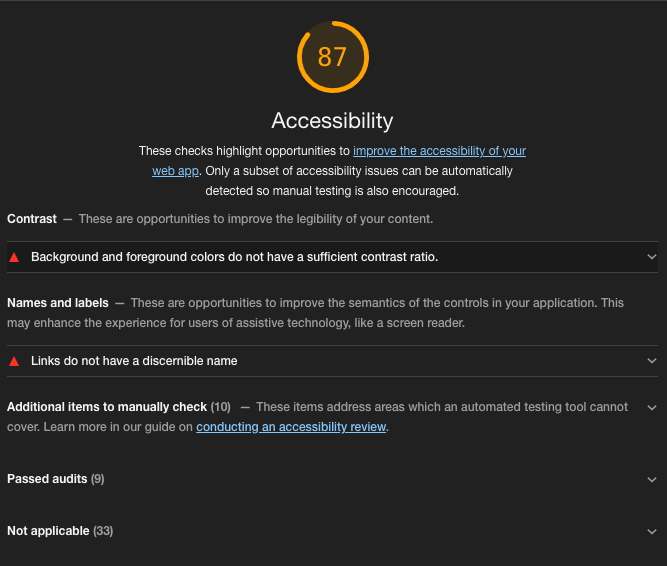
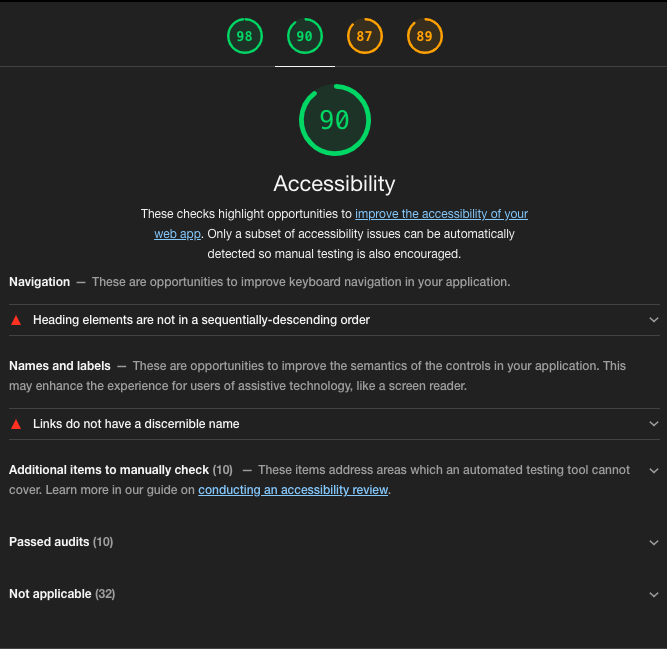
Add screenshots to update README

diff --git a/README.md b/README.md
@@ -3,6 +3,7 @@
 TravelCrowd is a community platform to share the most amazing travel deals! "Sharing is caring" also (or especially?) counts for travelling! With hundreds of tour operators, an infinite amount of possibilities and for every possible price it is sometimes very hard to find the right trip. Frequent travellers and travel deal hunters know, that travelling does not have to be expensive and that everybody is able to see the world!
 This platform is supposed to help out: A user simply has to register and can view travel deals that other members published. A user can also create, update and delete own deals.
 
+![screenshot_showcase](readme-files/readme-images/showcase.png)
 
 
 # Table of contents
@@ -62,7 +63,7 @@ This platform is supposed to help out: A user simply has to register and can vie
 TravelCrowd is a responsive website, therefore optimized for all devices and screen sizes (desktop, mobile and tablet). It is user friendly designed as it has an intuitive interface and is very descriptive. On the homepage a user can register and log in. When logged in, the user can see more features, like deals that were created by other users or creating a own deal. Furthermore the user has an own profile, in which there are only the deals this certain user created. At last the user has the option to log out.
 
 ## Wireframes
-Wireframes can be found here: [WIREFRAMES](readme-files/wireframes/TravelCrowd.pdf)
+Wireframes can be found here: [WIREFRAMES](readme-files/wireframes/travelcrowd.pdf)
 
 ## Surface
 ### Fonts
@@ -70,9 +71,10 @@ The main font used is "Amatic SC" (by [Google Fonts](https://fonts.google.com/))
 
 ### Colors
 - Fonts: Either black or white.
-- Buttons: #81c784 (Materializecss: green lighten-2) and #ef9a9a (Materializecss red lighten-3).
-- Footer: background-color of #e8f5e9 (Materializecss green lighten-5) and font-color of green).
-- All text has a text-shadow of rgba(0, 0, 0, 0.5).
+- Buttons: #00695c (Materializecss: teal darken-3) and #d81b60 (Materializecss pink darken-1).
+- Footer: background-color of #00695c (Materializecss: teal darken-3) and font-color of white).
+- white text has a text-shadow of rgba(0, 0, 0, 0.5).
+- For some other parts of the page I used different shades of #009688 (Materializecss teal), to keep the colors consistent.
 
 ### Images
 - Background image from [Unsplash](https://unsplash.com/).
@@ -80,7 +82,7 @@ The main font used is "Amatic SC" (by [Google Fonts](https://fonts.google.com/))
 
 # Database Schema
 I used one database (travel_crowd) with two collections (deals, users) in [MongoDB Atlas](https://www.mongodb.com/):
-![Database Schema](readme-files/readme-images/TravelCrowd_DB.png)
+![Database Schema](readme-files/readme-images/travelcrowd_db_schema.png)
 
 
 # Features
@@ -89,67 +91,91 @@ I used one database (travel_crowd) with two collections (deals, users) in [Mongo
 
 ### Navigation bar (header)
 
+### Home
+For a user who is not logged in the homepage shows the registration form and two text boxes. The first text box should animate the user to sign up and the second explains what TravelCrowd is about.
+![screenshot_home_logged_out](readme-files/readme-images/home_logged_out.png)
+
+When a user registers, the home page is still visible, but only the text box that explains what TravelCrowd is, is shown.
+![screenshot_home_logged_in](readme-files/readme-images/home_logged_in.png)
+
 ### Registration
 User can register with an username and password (with an minimum length of 5 and maximum length of 15, pattern: ^[a-zA-Z0-9]{5,15}$). The registration form can be found on the homepage and in an extra navigation item in the header. If the user has already an account, there is a button in the registration form that can be used to go directly to the login page.
-![Screenshot_Registration]()
+![screenshot_registration_form](readme-files/readme-images/registration_form.png)
+![screenshot_registration](readme-files/readme-images/registration.png)
 
 ### Login
 User can login with the username and password used in the registration process. The login form can be found in a dedicated navigation item in the header. If the user does not yet have an account, there is a button in the login form that leads the user directly to the registration form.
-![Screenshot_Login]()
+![screenshot_login_form](readme-files/readme-images/login_form.png)
 
 ### View Deals
 When the user is logged in he/she can see all deals created by everyone in the community.
-![Screenshot_Deals]()
+![screenshot_deals_collapsible](readme-files/readme-images/deals_collapsible.png)
+![screenshot_deal_information_](readme-files/readme-images/deal_information.png)
 
 ### Search
 In the search box, the user can search for country or city names to filter deals. A message appears, if there is no match.
-![Screenshot_Search]()
+![screenshot_search](readme-files/readme-images/deals_search.png)
 
 
 ### Profile
 On the profile page, the user can see all deals he/she created. When there are no deals created yet, a message appears.
-![Screenshot_Profile]()
+![screenshot_profile](readme-files/readme-images/profile.png)
 
 ### Create Deal
-By clicking on the "Create Deal" button, either on the Profile page or on the Deals page, the user can create a deal. To do so, the user has to fill out a form. The form has required and non required items. Those are the form elements:
+By clicking on the "Create Deal" button, either on the Profile page or on the Deals page, the user can create a deal. To do so, the user has to fill out a form. The form has required and non required items.
+![screenshot_create_deal](readme-files/readme-images/create_deal.png)
+![screenshot_create_deal](readme-files/readme-images/create_deal_2.png)
+#### Those are the form elements:
 - Deal name: required, maximum 30 characters.
 - Destination country: required, uses an autocomplete form (from Materializecss) to show all possible countries (with flags), when start typing.
+![screenshot_dropdown_countryflags](readme-files/readme-images/dropdown_countryflags.png)
 - Destination city: required.
 - Price: required, has to be a number.
 - Description: not required.
 - Departure airport: not required, uses a 3 characters IATA code and a pattern of [A-Za-z]{3}.
 - Start date: required, select with a datepicker, start date can not be after the end date.
 - End date: required, select with a datepicker, end date can not be before the start date.
+![screenshot_datepicker_error_message](readme-files/readme-images/datepicker_error_message.png)
 - Booking link: required, has to be an URL.
-![Screenshot_Create_Deal]()
 
 ### Update Deal
 When clicking on the "edit" button, the user is able to update the deal. All input fields are pre filled with the previous value. The user has a choice of a "cancel" and a "update" button.
-![Screenshot_Update_Deal]()
+![screenshot_edit_deal](readme-files/readme-images/edit_deal.png)
+![screenshot_edit_deal](readme-files/readme-images/edit_deal_2.png)
 
 ### Delete Deal
 The user can also delete a deal he/she created by clicking on the "delete" button. This will open first a modal, that asks for confirmation for deletion.
-![Screenshot_Create_Deal]()
+![screenshot_delete_modal](readme-files/readme-images/delete_modal.png)
 
 ### Logout
 User can log out of the account on the logout navigation item in the header.
-![Screenshot_Logout]()
 
 ### Flash messages
-- When the user tries to view anything, that can be only viewed when logged in.
+- When the user tries to view anything, that can be only viewed when logged in. A user could for instance type the username in the url, but this should not be possible due to security reasons.
+![screenshot_flash_not_allowed](readme-files/readme-images/flash_not_allowed.png)
 - When the user registered successfully.
+![screenshot_flash_registration](readme-files/readme-images/flash_registration.png)
 - When the username is already taken (in registration process)
+![screenshot_flash_username_already_exists](readme-files/readme-images/flash_username_already_exists.png)
 - When the user logged out successfully.
+![screenshot_flash_logged_out](readme-files/readme-images/flash_logged_out.png)
 - When the username/password is wrong while trying to login.
+![screenshot_flash_incorrect_usernam_pw](readme-files/readme-images/flash_incorrect_usernam_pw.png)
 - When the user published (created) a deal successfully.
+![screenshot_flash_deal_published](readme-files/readme-images/flash_deal_published.png)
 - When the user updated a deal successfully.
+![screenshot_flash_deal_updated](readme-files/readme-images/flash_deal_updated.png)
 - When the user tries to update or delete a deal that was not created by him/her.
+![screenshot_flash_not_allowed](readme-files/readme-images/flash_deal_updated.png)
 - When the user deleted a deal created by him/her.
-![Screenshot_Flashes]()
+![screenshot_flash_deal_deleted](readme-files/readme-images/flash_deal_deleted.png)
 
 ### Modal
 When the user wants to delete a deal, a modal will be shown, that asks for confirmation before finally deleting the deal.
-![Screenshot_Modal]()
+![screenshot_delete_modal](readme-files/readme-images/delete_modal.png)
+
+### Partials
+In this project partials were used to write reusable code that can be easily included in other templates.
 
 
 ## Features left to implement:
@@ -173,6 +199,7 @@ When the user wants to delete a deal, a modal will be shown, that asks for confi
 - [Materializecss](https://materializecss.com/): for responsiveness, styling and some functionality (collapsible, modal, datepicker, form etc.)
 - [Fontawesome](https://fontawesome.com/): as an icon library
 - [Google Fonts](https://fonts.google.com/): as a font resource
+- [Material ](https://material.io/resources/color/#!/?view.left=1&view.right=1&primary.color=2e7d32&secondary.color=d32f2f)
 
 ### Frameworks and libraries:
 - [Flask](https://en.wikipedia.org/wiki/Flask_(web_framework)): as a framework for Python
@@ -186,7 +213,7 @@ When the user wants to delete a deal, a modal will be shown, that asks for confi
 - [Am I responsive?](http://ami.responsivedesign.is/): for checking responsiveness on different screen sizes and using the screenshot taken from there as a showcase image for my projects readme.
 - [Comparium](https://front.comparium.app/livetesting): For live testing on different browsers
 
-### And more:
+### Miscellaneous:
 - [Mongo DB Atlas](): for storing data in a database
 - [Github](https://github.com/): for hosting the projects repository
 - [Heroku](): for deploying the website
@@ -239,16 +266,13 @@ The website was tested on following hardware devices:
 ## Performance testing with [Lighthouse](https://developers.google.com/web/tools/lighthouse)
 
 Performance:
+![lighthouse_performance](readme-files/readme-images/lighthouse_performance.png)
 
-![Lighthouse scores](readme-files/readme-images/Lighthouse_Performance.png)
-
-Accessibility score (needs improvement):
-
-![lighthouse accessibility score](readme-files/readme-images/Lighthouse_Accessibility.png)
+Accessibility score:
+![lighthouse_accessibility](readme-files/readme-images/lighthouse_accessibility.png)
 
 Best Practice & SEO:
-
-![lighthouse best practice and seo scores](readme-files/readme-images/Lighthouse_Best_Practice_and_SEO.png)
+![lighthouse_bestpractice_seo](readme-files/readme-images/lighthouse_bestpractice_seo.png)
 
 
 ## User stories testing
@@ -271,7 +295,8 @@ Best Practice & SEO:
 ## Bugs and problems
 - check if works on heroku without ssl workaround (Had to import ssl and add as parameter ssl_cert_reqs=ssl.CERT_NONE to mongo, to connect to MongoDB)
 
-- for countries in UK, the flags are not shown
+- for countries in UK, the flags are not shown, - flags: scotland, northern ireland, england, wales: Delete countries and keep UK?
+--> used GB as countrycode for all countries within the UK
 - finding a bg image that fits to the topic and to the overall design/fonts
 
 # Database
@@ -298,7 +323,7 @@ Best Practice & SEO:
 - Content is written by me.
 
 ## Images
-- 
+- Photo by <a href="https://unsplash.com/@sebaspenalambarri?utm_source=unsplash&utm_medium=referral&utm_content=creditCopyText">Sebastian Pena Lambarri</a> on <a href="https://unsplash.com/s/photos/travel-sea?utm_source=unsplash&utm_medium=referral&utm_content=creditCopyText">Unsplash</a>
 
 
 ## Problem solving helpers
@@ -311,13 +336,14 @@ Best Practice & SEO:
 - [Flask Documentation](https://flask.palletsprojects.com/en/2.0.x/)
 - [Flask Login-required-decorator](https://flask.palletsprojects.com/en/2.0.x/patterns/viewdecorators/#login-required-decorator)
 - [Shellhacks](https://www.shellhacks.com/jinja2-check-if-variable-empty-exists-defined-true/)
-
+https://flask.palletsprojects.com/en/2.0.x/patterns/favicon/
 
 ## Code
 - [Materializecss](https://materializecss.com/): for grid, form and styling of the website
 - [Google Fonts](https://fonts.google.com/): for the fonts used
 - [Fontawesome](https://fontawesome.com/): for the icons
 - [Code Insitute Task Manager Mini Project](https://github.com/Code-Institute-Solutions/TaskManager): for the authentication
+- [Stackoverflow](https://stackoverflow.com/questions/36556566/materialize-datepicker-prevent-end-date-before-start-date): how to prevent that end date is before start date, when using datepickers.
 
 ## Acknowledgments
 - A big thank you to my mentor [Tim Nelson](https://github.com/TravelTimN), who not only gave me great tips and recommendations, but also motivated me extremely! Danke!!
@@ -348,7 +374,7 @@ WHATS LEFT to do:
 
 Last time help:
 - lines to long (PEP8)
-- flags: scotland, northern ireland, england, wales: Delete countries and keep UK?
+
 - background? text not readable everywhere
 - any design idea for flashes?
 - change order of collapsible
